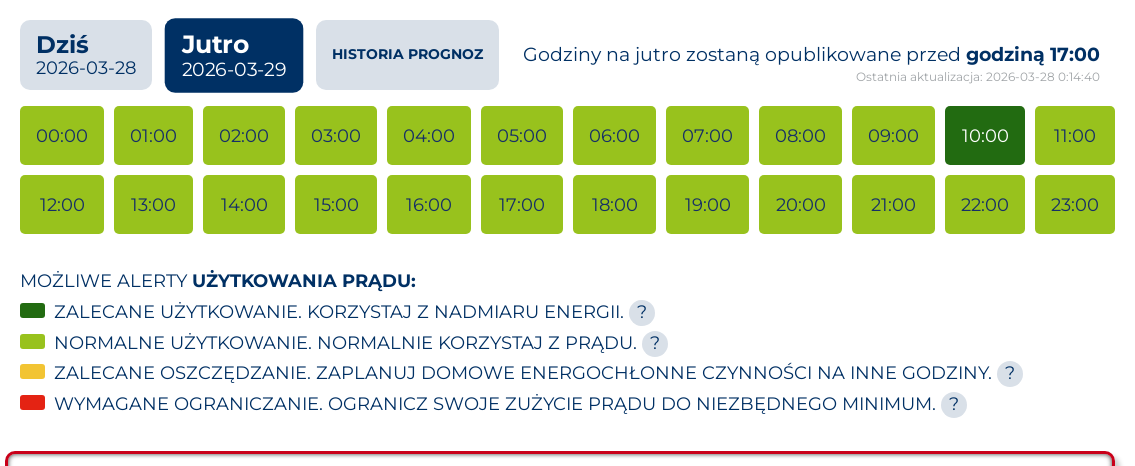
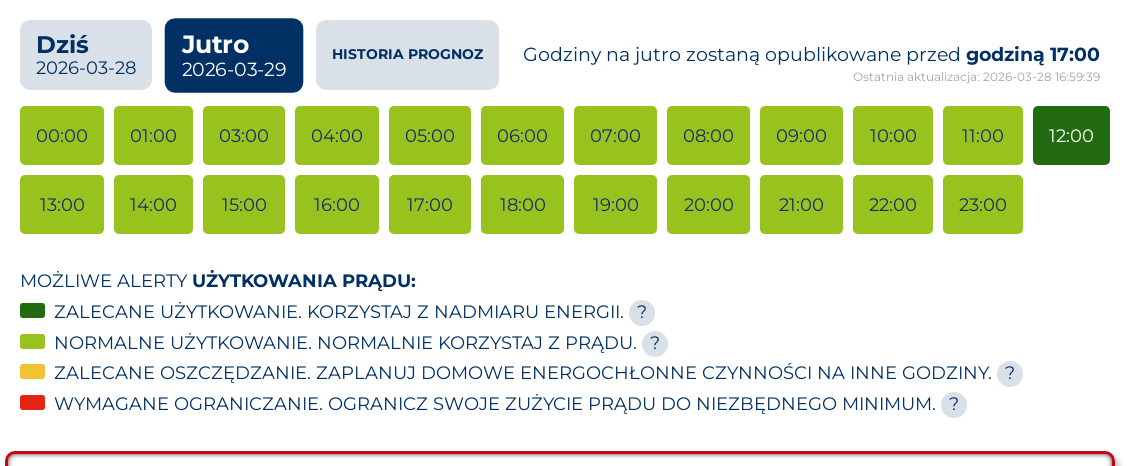
site: update 2026-03-28 15:59 UTC

diff --git a/site/html_01_tabele_wykresy_g14_today_tomorrow.html b/site/html_01_tabele_wykresy_g14_today_tomorrow.html
@@ -144,7 +144,7 @@
 <section class="hero">
   <div class="kicker">Dane</div>
   <h1>Taryfa — dzisiaj i jutro</h1>
-  <p class="muted">Strona wygenerowana: 2026-03-28 12:59:55</p>
+  <p class="muted">Strona wygenerowana: 2026-03-28 16:59:56</p>
   <p class="muted">Dane (dzisiaj) — ostatnia próbka: 2026-03-28 23:45:00</p>
   <p class="muted">Dane (jutro) — ostatnia próbka: brak danych</p>
 </section>
@@ -456,56 +456,56 @@
             <td class="left-1">10:00</td>
             <td class="left-2">10:15</td>
             <td class="sell-ok">0,124</td>
-            <td class="cat-c">0,213</td>
+            <td class="cat-c">0,263</td>
             <td class="cat-c">c</td>
           </tr>
           <tr>
             <td class="left-1">10:15</td>
             <td class="left-2">10:30</td>
             <td class="sell-ok">0,084</td>
-            <td class="cat-c">0,163</td>
+            <td class="cat-c">0,213</td>
             <td class="cat-c">c</td>
           </tr>
           <tr>
             <td class="left-1">10:30</td>
             <td class="left-2">10:45</td>
             <td class="sell-ok">0,070</td>
-            <td class="cat-c">0,146</td>
+            <td class="cat-c">0,196</td>
             <td class="cat-c">c</td>
           </tr>
           <tr>
             <td class="left-1">10:45</td>
             <td class="left-2">11:00</td>
             <td class="sell-ok">0,063</td>
-            <td class="cat-c">0,137</td>
+            <td class="cat-c">0,187</td>
             <td class="cat-c">c</td>
           </tr>
           <tr>
             <td class="left-1">11:00</td>
             <td class="left-2">11:15</td>
             <td class="sell-ok">0,032</td>
-            <td class="cat-b">0,099</td>
+            <td class="cat-b">0,149</td>
             <td class="cat-b">b</td>
           </tr>
           <tr>
             <td class="left-1">11:15</td>
             <td class="left-2">11:30</td>
             <td class="sell-ok">0,030</td>
-            <td class="cat-b">0,097</td>
+            <td class="cat-b">0,147</td>
             <td class="cat-b">b</td>
           </tr>
           <tr>
             <td class="left-1">11:30</td>
             <td class="left-2">11:45</td>
             <td class="sell-ok">0,028</td>
-            <td class="cat-a">0,094</td>
+            <td class="cat-a">0,144</td>
             <td class="cat-a">a</td>
           </tr>
           <tr>
             <td class="left-1">11:45</td>
             <td class="left-2">12:00</td>
             <td class="sell-ok">0,027</td>
-            <td class="cat-a">0,093</td>
+            <td class="cat-a">0,143</td>
             <td class="cat-a">a</td>
           </tr>
           <tr>
@@ -708,28 +708,28 @@
             <td class="left-1">19:00</td>
             <td class="left-2">19:15</td>
             <td class="sell-ok">0,664</td>
-            <td class="cat-d">0,927</td>
+            <td class="cat-d">1,297</td>
             <td class="cat-d">d</td>
           </tr>
           <tr>
             <td class="left-1">19:15</td>
             <td class="left-2">19:30</td>
             <td class="sell-ok">0,662</td>
-            <td class="cat-d">0,924</td>
+            <td class="cat-d">1,294</td>
             <td class="cat-d">d</td>
           </tr>
           <tr>
             <td class="left-1">19:30</td>
             <td class="left-2">19:45</td>
             <td class="sell-ok">0,659</td>
-            <td class="cat-d">0,921</td>
+            <td class="cat-d">1,291</td>
             <td class="cat-d">d</td>
           </tr>
           <tr>
             <td class="left-1">19:45</td>
             <td class="left-2">20:00</td>
             <td class="sell-ok">0,646</td>
-            <td class="cat-d">0,905</td>
+            <td class="cat-d">1,275</td>
             <td class="cat-d">d</td>
           </tr>
           <tr>

diff --git a/site/html_02_raport_ze_stanu_teraz.html b/site/html_02_raport_ze_stanu_teraz.html
@@ -18,7 +18,7 @@
   </div>
 
   <section class="hero">
-    <div class="kicker">Ostatni odczyt: 28.03.2026 16:44</div>
+    <div class="kicker">Ostatni odczyt: 28.03.2026 16:59</div>
     <h1>Raport ze stanu teraz</h1>
     <p>
       Taryfy Tauron:
@@ -42,7 +42,7 @@
       <tbody>
         <tr>
           <th style="width:40%;">Czas odczytu</th>
-          <td>28.03.2026 16:44</td>
+          <td>28.03.2026 16:59</td>
         </tr>
         <tr>
           <th>Położenie</th>
@@ -62,19 +62,19 @@
       <tbody>
         <tr>
           <th style="width:40%;">Produkcja PV dzisiaj [kWh]</th>
-          <td>5.70</td>
+          <td>5.80</td>
         </tr>
         <tr>
           <th>Zużycie energii dzisiaj [kWh]</th>
-          <td>3.40</td>
+          <td>3.60</td>
         </tr>
         <tr>
           <th>Energia pobrana z sieci dzisiaj [kWh]</th>
-          <td>2.80</td>
+          <td>3.00</td>
         </tr>
         <tr>
           <th>Zużycie z sieci dzisiaj [kWh]</th>
-          <td>2.10</td>
+          <td>2.30</td>
         </tr>
         <tr>
           <th>Zużycie z własnego systemu dzisiaj [kWh]</th>
@@ -106,7 +106,7 @@
         </tr>
         <tr>
           <th>Moc z / do sieci [W]</th>
-          <td>296</td>
+          <td>167</td>
         </tr>
         <tr>
           <th>Moc z / do baterii [W]</th>

diff --git a/site/html_03_g13_g14_porownanie.html b/site/html_03_g13_g14_porownanie.html
@@ -18,7 +18,7 @@
   </div>
 
   <section class="hero">
-    <div class="kicker">Ceny sprzedaży i zakupu energii oraz tryb SolaX (ostatni odczyt: 2026-03-28 16:44:24, strona wygenerowana 2026-03-28 16:44:38)</div>
+    <div class="kicker">Ceny sprzedaży i zakupu energii oraz tryb SolaX (ostatni odczyt: 2026-03-28 16:59:24, strona wygenerowana 2026-03-28 16:59:58)</div>
     <h1>Ceny energii i tryb SolaX</h1>
     <p>
       Taryfy Tauron:
@@ -44,7 +44,7 @@
       <tbody>
         <tr>
           <td>Cena sprzedaży energii (SELL)</td>
-          <td>0,493</td>
+          <td>0,466</td>
         </tr>
         <tr>
           <td>Cena zakupu energii w taryfie G13</td>
@@ -52,7 +52,7 @@
         </tr>
         <tr>
           <td>Cena zakupu energii w taryfie G14</td>
-          <td>0,716</td>
+          <td>0,683</td>
         </tr>
       </tbody>
     </table>
